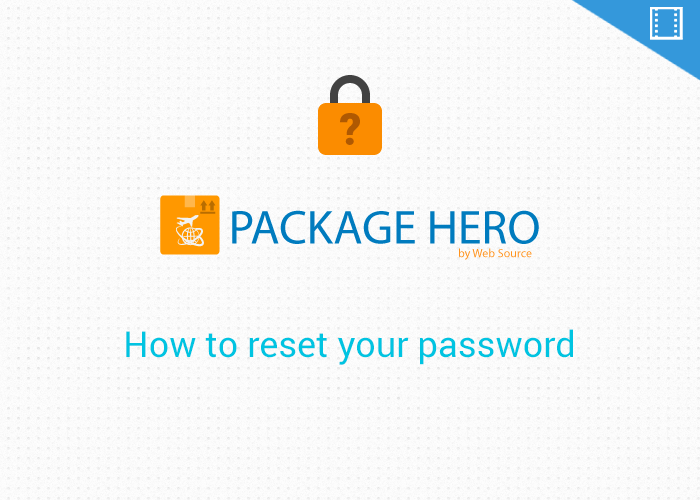
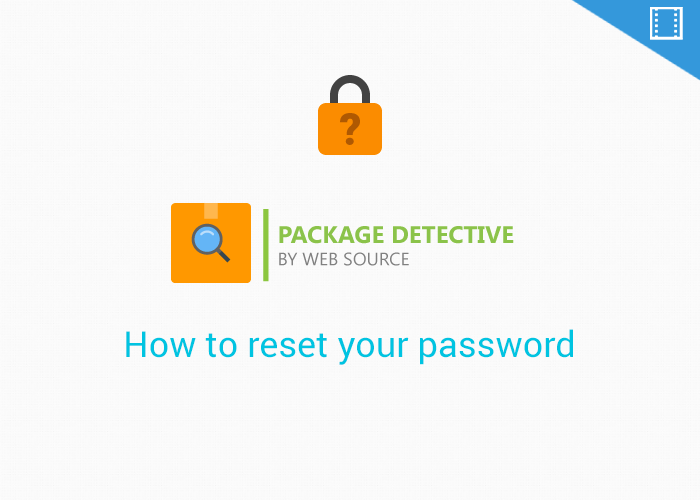
Help center, New brand. General bug fixes
Package Hero is now Package Detective. Introduced new  Help Center and
other general improvements and bug fixes.

Changed region(s): [[0.21, 0.39, 0.78, 0.57]]

diff --git a/includes/addpackage.php b/includes/addpackage.php
@@ -3,39 +3,44 @@
           <br>
           <header class="subheading"><span class="fa fa-bug"> </span> Create a new issue </header>
           <p id="errorMessage"></p>
-          <p>Enter the details for this issue then choose whether an email will be sent to the customer automatically.</p>
-            <p>To create a custom email instead, simply choose "Yes, I will enter the text". You can also choose "No" to send no email.</p>
 
           <br><br>
         <section>
           <label for = "trackingnumber">Tracking Number</label>
-          <input type = "text" id = "trackingnumber" name="trackingnumber" required /><br>
+          <input type = "text" id = "trackingnumber" name="trackingnumber" required placeholder="e.g 942759457846848" autofocus /><br>
 
           <label for="customername">Customer Name</label>
-          <input type = "text" id = "customername" name="customername" /><br>
+          <input type = "text" id = "customername" name="customername" placeholder="e.g Lincoln Wendy" /><br>
+
+          <label for="accountnumber">Account Number</label>
+          <input type = "text" id = "accountnumber" name="accountnumber" placeholder="e.g WEB720 or BSL67324" /><br>
 
           <label for="type">Main Issue</label>
-            <select form = "package" name="mainissue"> <br>
-              <option value="" disabled selected>Select an issue</option>
-              <option value = "Broken">Received broken</option>
-              <option value = "Missing customer details">Missing customer details</option>
-              <option value = "Held by customs USA">Held by customs USA</option>
-              <option value = "Restricted item">Possible restricted import item</option>
+            <select form = "package" name="mainissue" required> <br>
+              <option value="" disabled selected>What's wrong?</option>
+              <option value = "Broken">Item received broken</option>
+              <option value = "Proof of pickup">Proof of pickup</option>
+              <option value = "Crating required">Crating required</option>
+              <option value = "Missing customer details">Missing customer details for the package</option>
+              <option value = "Hazardous material">Hazmat. What to do?</option>
+              <option value = "Held by customs USA">Item is being held by customs</option>
+              <option value = "Restricted item">Item is on the restricted list</option>
               <option value = "Import License Needed">Import license needed</option>
               <option value = "Invoice required">Invoice required</option>
-              <option value = "No account number found">No account number found</option>
-              <option value = "Delivery address not known">Delivery address not known</option>
+              <option value = "No account number found">Item has no account number</option>
+              <option value = "Verify accountholder ordered item">Verify if account holder ordered item </option>
+              <option value = "Other">Other</option>
             </select><br>
 
           <label for="description">Comments/ Details</label>
           <textarea rows="7" cols="55" form="package" id = "description" name="description"></textarea> <br>
 
-          <label for="itemtype">Item Description</label>
+          <label for="itemtype">Item Type</label>
           <input type = "text" id = "itemtype" name="itemtype" /><br>
 
-          <label for="shippingcarrier">Shipping Carrier</label>
+          <label for="shippingcarrier">Shipping Company</label>
             <select form="package" name="shippingcarrier" required> <br>
-              <option value="" disabled selected>Pick the shipping agent</option>
+              <option value="" disabled selected>Who delivered this item?</option>
               <option value = "USPS">USPS</option>
               <option value = "FedEX">FedEx</option>
               <option value = "UPS">UPS</option>
@@ -47,17 +52,17 @@
               <option value = "Warehouse drop-off">Warehouse drop-off</option>
             </select><br>
 
-            <label for="sendEmail">Send email?</label>
+            <label for="sendEmail">Email Customer?</label>
             <select id = "sendEmail" form="package" name = "sendEmail" required> <br>
               <option value = "auto"  selected>Yes (auto generated)</option>
-              <option value = "custom">Yes, I will enter the text</option>
+              <option value = "custom">Yes, but I will enter the text</option>
               <option value = "no">No</option>
             </select>
 
             <label id="forEmailBody" style="display:none;" for ="emailBody">Email body</label>
             <textarea style="display:none;" id="emailBody" name="emailBody" rows="7" cols="55" ></textarea>
 
-          <label for="images">Images (MAX: 5)</label>
+          <label for="images">Photos (up to 5)</label>
           <input type = "file" id = "images" name="images[]" accept=".jpg" multiple="" required> <br>
           <input id="addIssue" type = "submit" value="Add" />
         </section>

diff --git a/includes/functions/sendMail.php b/includes/functions/sendMail.php
@@ -12,16 +12,16 @@
                             //$mail->SMTPDebug = 3;                               // Enable verbose debug output
 
                             $mail->isSMTP();                                      // Set mailer to use SMTP
-                            $mail->Host = 'mailtrap.io';
+                            $mail->Host = 'smtpout.secureserver.net';
                             // Specify main and backup SMTP servers
                             $mail->SMTPAuth = true;                               // Enable SMTP authentication
-                            $mail->Username = '532891ed9f27d8080';                   // SMTP username
-                            $mail->Password = 'c89eb3a578dffe';                        // SMTP password
-                            $mail->SMTPSecure = 'tls';                            // Enable TLS encryption, `ssl` also accepted
-                            $mail->Port = 1100;                                // TCP port to connect to
+                            $mail->Username = 'wh@shipwebsource.com';                   // SMTP username
+                            $mail->Password = 'warehouse';                        // SMTP password
+                            $mail->SMTPSecure = 'ssl';                            // Enable TLS encryption, `ssl` also accepted
+                            $mail->Port = 465;                                // TCP port to connect to
 
                             $mail->setFrom($from);
-                            // $mail->addAddress('guischard@shipwebsource.com', 'Charles');     // Add a recipient
+                            $mail->addAddress('kenice@shipwebsource.com', 'Kenice N');     // Add a recipient
                             $mail->addAddress($to);                                          // Name is optional
                             $mail->addReplyTo($replyTo);
 

diff --git a/includes/add_issue.php b/includes/add_issue.php
@@ -250,9 +250,9 @@
 
                         if(isset($_POST['emailBody']) && $_POST['sendEmail'] != "no")
                         {
-                          $subject = "There's a problem with your package(s)";
-                          $from = "info@shipwebsource.com";
-                          $to = "kenice1@gmail.com";
+                          $subject = "There's an issue with your package(s)";
+                          $from = "detective@shipwebsource.com";
+                          $to = "brendon@shipwebsource.com";
                           $replyTo = "customerservice@shipwebsource.com";
                           $errors.= composeEmail($from, $to, $subject, $replyTo, $fullEmailContent);
 

diff --git a/includes/helpcenter.php b/includes/helpcenter.php
@@ -16,9 +16,9 @@
 						<div id ="content2">
 								<div id="data">
 										<header class="helpHeader">
-											Need help? You've come to the right place
+											Need help? We've got you covered.
 											<p class="helpSubText">
-												Here, you will find videos and guides on using all the new features of Package Hero
+												Here, you will find videos and guides on using all the new features of Package Detective
 											</p>
 										</header>
 										<video class= "tutorial" width="700" height="500" controls muted poster="../images/posterimage_tutorial.png">

diff --git a/includes/header.php b/includes/header.php
@@ -18,7 +18,7 @@
 		<html>
 			<head>
 
-				<title>Package Hero by Web Source</title>
+				<title>Package Detective by Web Source</title>
 				<link rel = "stylesheet" href = "css/main.css" type ="text/css">
 					<link type="text/css" rel="stylesheet" href="css/jquery-ui.min.css" />
 				<link rel = "stylesheet" href = "font-awesome/css/font-awesome.min.css" type ="text/css">

diff --git a/rss.php b/rss.php
@@ -47,9 +47,9 @@
       }
 
     	echo '
-		<title>Package Hero Updates</title>
+		<title>Package Detective Updates</title>
 		<link>http://packagehero.websource-caribbean.com</link>
-		<description>Receive updates on Package Hero Issues</description>';
+		<description>Receive updates on the latest issues added to Package Detective</description>';
     echo $items;
 
 

diff --git a/index_new.php b/index_new.php
@@ -2,10 +2,14 @@
 
 			<div id = "container">
 
+				<div class="top">
+					
+				</div>
+
 				<div id ="bottom">
 							<form id="form" method ="post">
 								<img src="images/ph.png" />
-								<header id="welcome">Welcome</header>
+								<header id="welcome">Hello</header>
 									<?php
 										if(isset($_GET['page']))
 										{

diff --git a/includes/dashboard_header_2.php b/includes/dashboard_header_2.php
@@ -10,7 +10,7 @@
 
 			<html>
 				<head>
-					<title>Package Hero&reg;</title>
+					<title>Package Detective&reg;</title>
 					<!-- The CSS styles  -->
 					<link rel = "stylesheet" href = "../css/admin_styles.css" type ="text/css">
 					<link rel = "stylesheet" href = "../css/mobile.css" type ="text/css">

diff --git a/includes/dashboard_header.php b/includes/dashboard_header.php
@@ -9,7 +9,7 @@
 
 				<html>
 					<head>
-						<title>Package Hero&reg;</title>
+						<title>Package Detective&reg;</title>
 						<link rel = "stylesheet" href = "../css/admin_styles.css" type ="text/css">
 						<link type="text/css" rel="stylesheet" href="../css/overlaypopup.css" />
 

diff --git a/includes/footer.php b/includes/footer.php
@@ -1,1 +1,4 @@
+<?php
+  date_default_timezone_set('UTC');
+?>
 <footer id = "footer">&copy;<?php echo date("Y"); ?> Web Source Company Ltd.</footer>
